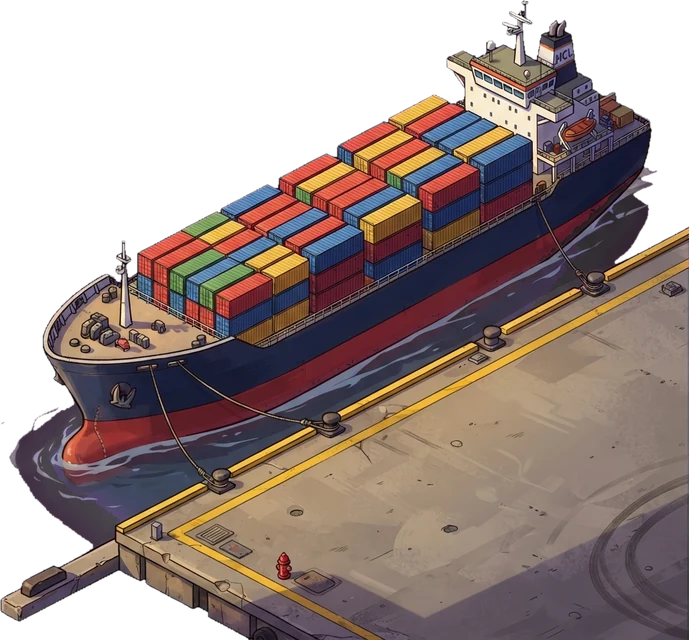
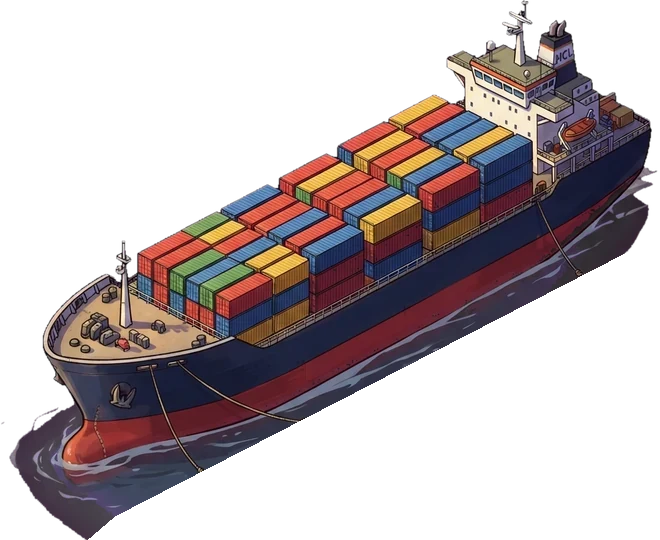
fix(map): soft lamp glows under the lamp head, smaller window glows; cargo ship without its quay slab

diff --git a/apps/web/src/components/CityMap.tsx b/apps/web/src/components/CityMap.tsx
@@ -462,13 +462,18 @@ export function CityMap({
               <stop offset="1" stopColor="#5a3d1c" stopOpacity=".38" />
             </radialGradient>
             <radialGradient id="lamp-pool">
-              <stop offset="0" stopColor="#ffd98a" stopOpacity=".75" />
-              <stop offset=".5" stopColor="#ffb547" stopOpacity=".28" />
+              <stop offset="0" stopColor="#ffd98a" stopOpacity=".5" />
+              <stop offset=".55" stopColor="#ffb547" stopOpacity=".16" />
               <stop offset="1" stopColor="#ffb547" stopOpacity="0" />
             </radialGradient>
+            <radialGradient id="lamp-head">
+              <stop offset="0" stopColor="#fffbe6" stopOpacity=".95" />
+              <stop offset=".35" stopColor="#ffe7a3" stopOpacity=".55" />
+              <stop offset="1" stopColor="#ffcf6e" stopOpacity="0" />
+            </radialGradient>
             <radialGradient id="window-glow">
-              <stop offset="0" stopColor="#ffcf6e" stopOpacity=".55" />
-              <stop offset=".6" stopColor="#ff9f3a" stopOpacity=".16" />
+              <stop offset="0" stopColor="#ffcf6e" stopOpacity=".42" />
+              <stop offset=".6" stopColor="#ff9f3a" stopOpacity=".1" />
               <stop offset="1" stopColor="#ff9f3a" stopOpacity="0" />
             </radialGradient>
             <radialGradient id="glow-centre" cx="50%" cy="50%" r="50%">
@@ -724,22 +729,24 @@ export function CityMap({
                   {!far &&
                     BILLBOARD_SPOTS.map((spot) => <ellipse key={`bb-${spot.key}`} cx={spot.x} cy={spot.y - 200} rx="220" ry="110" fill="url(#window-glow)" />)}
                   {LAMPS.filter((l) => inView(l.x, l.y)).map((l) => {
-                    // The lamp head hangs off its arm, up and to the right of the pole.
+                    // The lamp head hangs off its arm, up and to the right of the pole: a soft glow under the head,
+                    // and a flat pool on the ground straight below it (squashed 2:1 like the ground).
                     const box = propBox(LAMP.art, l.x, l.y, LAMP.w);
+                    const hx = box.x + box.w * 0.86;
                     return (
                       <g key={l.key}>
-                        <ellipse cx={l.x + 14} cy={l.y + 12} rx="110" ry="52" fill="url(#lamp-pool)" />
-                        <circle cx={box.x + box.w * 0.72} cy={box.y + box.h * 0.1} r="7" fill="#fff4c8" />
+                        <ellipse cx={hx} cy={l.y + 4} rx="64" ry="32" fill="url(#lamp-pool)" />
+                        <ellipse cx={hx} cy={box.y + box.h * 0.2} rx="14" ry="10" fill="url(#lamp-head)" />
                       </g>
                     );
                   })}
                   {ALL_SCENERY.filter((b) => inView(b.x, b.y)).map((b) => {
                     const box = buildingBox(b.art, b.x, b.y, b.scale);
-                    return <ellipse key={b.key} cx={b.x} cy={box.y + box.h * 0.6} rx={box.w * 0.5} ry={box.h * 0.42} fill="url(#window-glow)" />;
+                    return <ellipse key={b.key} cx={b.x} cy={box.y + box.h * 0.55} rx={box.w * 0.42} ry={box.h * 0.32} fill="url(#window-glow)" />;
                   })}
                   {!far &&
-                    PLOTS.map((p, i) => neighbours[i] && <ellipse key={i} cx={p.x} cy={p.y - 30} rx="110" ry="80" fill="url(#window-glow)" />)}
-                  <ellipse cx={CX} cy={CY} rx="260" ry="140" fill="url(#lamp-pool)" />
+                    PLOTS.map((p, i) => neighbours[i] && <ellipse key={i} cx={p.x} cy={p.y - 40} rx="80" ry="56" fill="url(#window-glow)" />)}
+                  <ellipse cx={CX} cy={CY} rx="220" ry="110" fill="url(#lamp-pool)" />
                   {!far && PLACES.map((pl) => <ellipse key={pl.id} cx={pl.x + pl.w / 2} cy={pl.y + pl.h * 0.55} rx={pl.w * 0.6} ry={pl.h * 0.5} fill="url(#window-glow)" />)}
                 </g>
               )}

diff --git a/apps/web/src/components/artSizes.ts b/apps/web/src/components/artSizes.ts
@@ -65,7 +65,7 @@ export const ART_SIZE: Record<string, [number, number]> = {
   "/art/buildings/villa.webp": [821, 640],
   "/art/buildings/warehouse.webp": [828, 640],
   "/art/props/bus-stop.webp": [650, 640],
-  "/art/props/cargo-ship.webp": [689, 640],
+  "/art/props/cargo-ship.webp": [660, 540],
   "/art/props/footbridge.webp": [804, 640],
   "/art/props/for-sale-sign.webp": [591, 640],
   "/art/props/fountain.webp": [804, 607],
